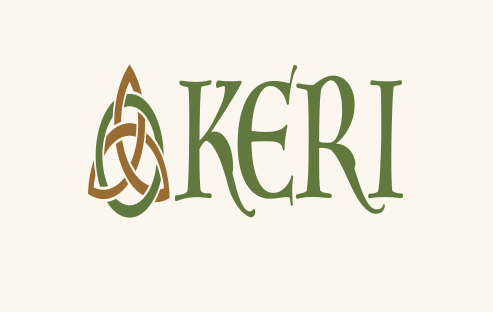
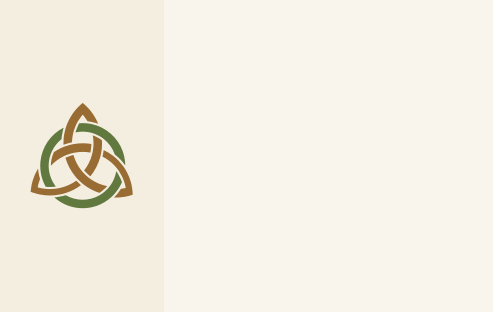
chore(release): 0.1.5 — UI fixes for View verification log + MSI dialog
- fix(ui): View verification log button now opens the dialog. The
  AppSettingsDialog wired the click through `self.window()`, which
  returns the dialog itself (it IS a window), so the handler lookup
  on LocksmithWindow always missed. Walk the parent chain instead.
- fix(ui): Verification dialog text no longer clips and the Close
  button is centered. The inner buttons layout had an extra
  addStretch fighting LocksmithDialog's own centering wrap; min
  width/height now sized for the idle and populated states.
- fix(ui): Idle-state copy is honest about when verification
  populates instead of telling the user to click 'Check now'
  (which never populates the log).
- fix(msi): WiX welcome/banner backgrounds redesigned so the
  KERI symbol logo is confined to a left-side panel and WixUI
  text on the right no longer overlaps the brand art.
- feat(packaging): packaging/wix/gen_ui_images.py — reproducible
  generator for dialog.png + banner.png from SymbolLogo.svg.

Changed region(s): [[0.0609, 0.2019, 0.8215, 0.7212]]

diff --git a/packaging/wix/gen_ui_images.py b/packaging/wix/gen_ui_images.py
@@ -1,0 +1,90 @@
+"""Regenerate WiX dialog.png + banner.png.
+
+The WixUI_InstallDir dialog set uses ``WixUIDialogBmp`` as the FULL
+background of the Welcome and Exit screens and ``WixUIBannerBmp`` as
+the top banner on intermediate screens. WixUI then draws title +
+description text on top — so the image must leave the right ~329 px
+(dialog) and the left ~370 px (banner) clear, otherwise the text
+overlaps brand art (as it did in v0.1.4).
+
+Run from the repo root::
+
+    .venv/bin/python packaging/wix/gen_ui_images.py
+"""
+from __future__ import annotations
+
+import sys
+from pathlib import Path
+
+from PySide6.QtCore import Qt
+from PySide6.QtGui import QColor, QImage, QPainter
+from PySide6.QtSvg import QSvgRenderer
+from PySide6.QtWidgets import QApplication
+
+
+REPO = Path(__file__).resolve().parents[2]
+ASSETS = REPO / "assets" / "custom"
+OUT = REPO / "packaging" / "wix"
+
+DIALOG_W, DIALOG_H = 493, 312
+BANNER_W, BANNER_H = 493, 58
+
+BG_COLOR = QColor(249, 245, 236)   # cream #f9f5ec
+LEFT_BG = QColor(244, 238, 225)    # slightly darker cream for the panel
+LEFT_PANEL_W = 164                 # leaves ~329 px of clear space on the right
+
+
+def _render_svg(svg_path: Path, size: int) -> QImage:
+    renderer = QSvgRenderer(str(svg_path))
+    img = QImage(size, size, QImage.Format.Format_ARGB32)
+    img.fill(Qt.GlobalColor.transparent)
+    p = QPainter(img)
+    p.setRenderHint(QPainter.RenderHint.Antialiasing, True)
+    p.setRenderHint(QPainter.RenderHint.SmoothPixmapTransform, True)
+    renderer.render(p)
+    p.end()
+    return img
+
+
+def build_dialog() -> None:
+    img = QImage(DIALOG_W, DIALOG_H, QImage.Format.Format_ARGB32)
+    img.fill(BG_COLOR)
+    p = QPainter(img)
+    p.setRenderHint(QPainter.RenderHint.Antialiasing, True)
+    p.setRenderHint(QPainter.RenderHint.SmoothPixmapTransform, True)
+    p.fillRect(0, 0, LEFT_PANEL_W, DIALOG_H, LEFT_BG)
+    logo_size = 110
+    logo = _render_svg(ASSETS / "SymbolLogo.svg", logo_size)
+    lx = (LEFT_PANEL_W - logo_size) // 2
+    ly = (DIALOG_H - logo_size) // 2
+    p.drawImage(lx, ly, logo)
+    p.end()
+    out = OUT / "dialog.png"
+    if not img.save(str(out), "PNG"):
+        raise SystemExit(f"Failed to save {out}")
+    print(f"wrote {out}  {img.width()}x{img.height()}")
+
+
+def build_banner() -> None:
+    img = QImage(BANNER_W, BANNER_H, QImage.Format.Format_ARGB32)
+    img.fill(BG_COLOR)
+    p = QPainter(img)
+    p.setRenderHint(QPainter.RenderHint.Antialiasing, True)
+    p.setRenderHint(QPainter.RenderHint.SmoothPixmapTransform, True)
+    logo_size = 44
+    logo = _render_svg(ASSETS / "SymbolLogo.svg", logo_size)
+    margin_right = 12
+    bx = BANNER_W - logo_size - margin_right
+    by = (BANNER_H - logo_size) // 2
+    p.drawImage(bx, by, logo)
+    p.end()
+    out = OUT / "banner.png"
+    if not img.save(str(out), "PNG"):
+        raise SystemExit(f"Failed to save {out}")
+    print(f"wrote {out}  {img.width()}x{img.height()}")
+
+
+if __name__ == "__main__":
+    QApplication.instance() or QApplication(sys.argv)
+    build_dialog()
+    build_banner()

diff --git a/src/locksmith/ui/dialogs/verification_log.py b/src/locksmith/ui/dialogs/verification_log.py
@@ -82,12 +82,13 @@ def _status_banner(result: VerificationResult, error_message: str | None) -> QWi
             colors.BACKGROUND_SELECTION,
             colors.TEXT_PRIMARY,
             "ⓘ",
-            "No verification yet",
+            "No update has been verified yet",
         )
         sub = (
-            "Click 'Check now' from Settings → Updates (or 'Check for "
-            "updates…' from the Help menu) to verify the running release "
-            "against the publisher's KERI key event log."
+            "Locksmith verifies an update only when one is actually being "
+            "installed — the cryptographic proof for that release will "
+            "appear here. Your currently running build was signed by the "
+            "publisher at install time."
         )
     elif result.ok:
         bg, fg, mark, headline = (
@@ -167,6 +168,14 @@ class VerificationLogDialog(LocksmithDialog):
         )
         self.setObjectName("verificationLogDialog")
         self.result = result
+        # The inner wrap's setMinimumWidth alone isn't enough — the
+        # LocksmithDialog scroll area collapses to its content's
+        # natural size on first show, clipping label text. Force the
+        # dialog to a comfortable size so the readout fits without
+        # triggering a vertical scrollbar for the typical empty/idle
+        # state.
+        self.setMinimumWidth(640)
+        self.setMinimumHeight(280 if result is None else 540)
 
     # ---- layout ----------------------------------------------------------
 
@@ -230,9 +239,11 @@ class VerificationLogDialog(LocksmithDialog):
         return wrap
 
     def _build_buttons(self) -> QHBoxLayout:
+        # LocksmithDialog already wraps this layout with addStretch()
+        # on both sides for centering — do NOT add another stretch
+        # here or the button gets pushed off-center.
         buttons = QHBoxLayout()
         buttons.setSpacing(12)
-        buttons.addStretch(1)
         close = QPushButton("Close")
         close.setObjectName("verificationLogDialog.closeButton")
         close.setCursor(Qt.CursorShape.PointingHandCursor)

diff --git a/tests/unit/update/test_verification_log_dialog.py b/tests/unit/update/test_verification_log_dialog.py
@@ -145,16 +145,21 @@ def test_rejected_dialog_falls_back_to_generic_error_message():
 
 def test_none_result_shows_idle_banner_not_rejected():
     """When no verification has run, the dialog must show a neutral
-    'No verification yet' state, NOT a red 'Rejected' banner. Showing
-    Rejected makes users think something failed when actually nothing
-    has happened yet (UX bug fixed 2026-06-09)."""
+    idle banner, NOT a red 'Rejected' banner. Showing Rejected makes
+    users think something failed when actually nothing has happened
+    yet (UX bug fixed 2026-06-09)."""
     dlg = VerificationLogDialog(result=None)
     texts = _all_label_texts(dlg)
-    assert any("No verification yet" in t for t in texts)
+    assert any("No update has been verified" in t for t in texts)
     # And specifically NOT a rejection
     assert "Rejected" not in texts
-    # The body should guide the user to Check now / Help menu
-    assert any("Check now" in t or "Check for updates" in t for t in texts)
+    # The body should honestly explain when verification populates,
+    # NOT mislead the user into thinking 'Check now' will populate it.
+    assert any(
+        "verifies an update only when" in t.lower()
+        or "installed" in t.lower()
+        for t in texts
+    )
 
 
 def test_witness_count_below_threshold_does_not_get_green_styling():

diff --git a/src/locksmith/ui/dialogs/app_settings.py b/src/locksmith/ui/dialogs/app_settings.py
@@ -104,12 +104,22 @@ class AppSettingsDialog(LocksmithDialog):
             self._updates_widget.set_check_now_callback(ctrl.check_now)
 
         def _on_view_log() -> None:
-            # Walk up to the top-level LocksmithWindow and open its
-            # dialog via the same handler the Help menu uses.
-            top = self.window()
-            handler = getattr(top, "_on_show_verification_log_clicked", None)
+            # self.window() returns the dialog itself (it IS a window).
+            # Walk the parent chain to find the LocksmithWindow that
+            # owns _on_show_verification_log_clicked.
+            w = self.parent()
+            handler = None
+            while w is not None:
+                handler = getattr(w, "_on_show_verification_log_clicked", None)
+                if handler is not None:
+                    break
+                w = w.parent()
             if handler is not None:
                 handler()
+            else:
+                logger.warning(
+                    "appSettingsDialog.view_log_no_handler_found"
+                )
         self._updates_widget.set_view_log_callback(_on_view_log)
         self._insert_section(self._updates_widget)
 

diff --git a/tests/test_app_settings_dialog.py b/tests/test_app_settings_dialog.py
@@ -98,6 +98,25 @@ def test_app_settings_dialog_wires_check_now_to_controller(qapp):
     assert called == ["check_now"]
 
 
+def test_app_settings_dialog_wires_view_log_to_parent_window_handler(qapp):
+    """Regression: self.window() returns the dialog itself, so a naive
+    lookup misses the LocksmithWindow handler. The callback must walk
+    the parent chain instead."""
+    called = []
+
+    class FakeWindow(QWidget):
+        def _on_show_verification_log_clicked(self):
+            called.append("opened")
+
+    window = FakeWindow()
+    dialog = AppSettingsDialog(app=_fake_app(), parent=window)
+
+    btn = dialog.findChild(QWidget, "updatesSettingsWidget.viewLogButton")
+    assert btn is not None
+    btn.click()
+    assert called == ["opened"]
+
+
 def test_app_settings_dialog_contains_about_section(qapp):
     dialog = AppSettingsDialog(app=_fake_app())
     labels = dialog.findChildren(QLabel, "appSettingsDialog.aboutVersionLabel")
